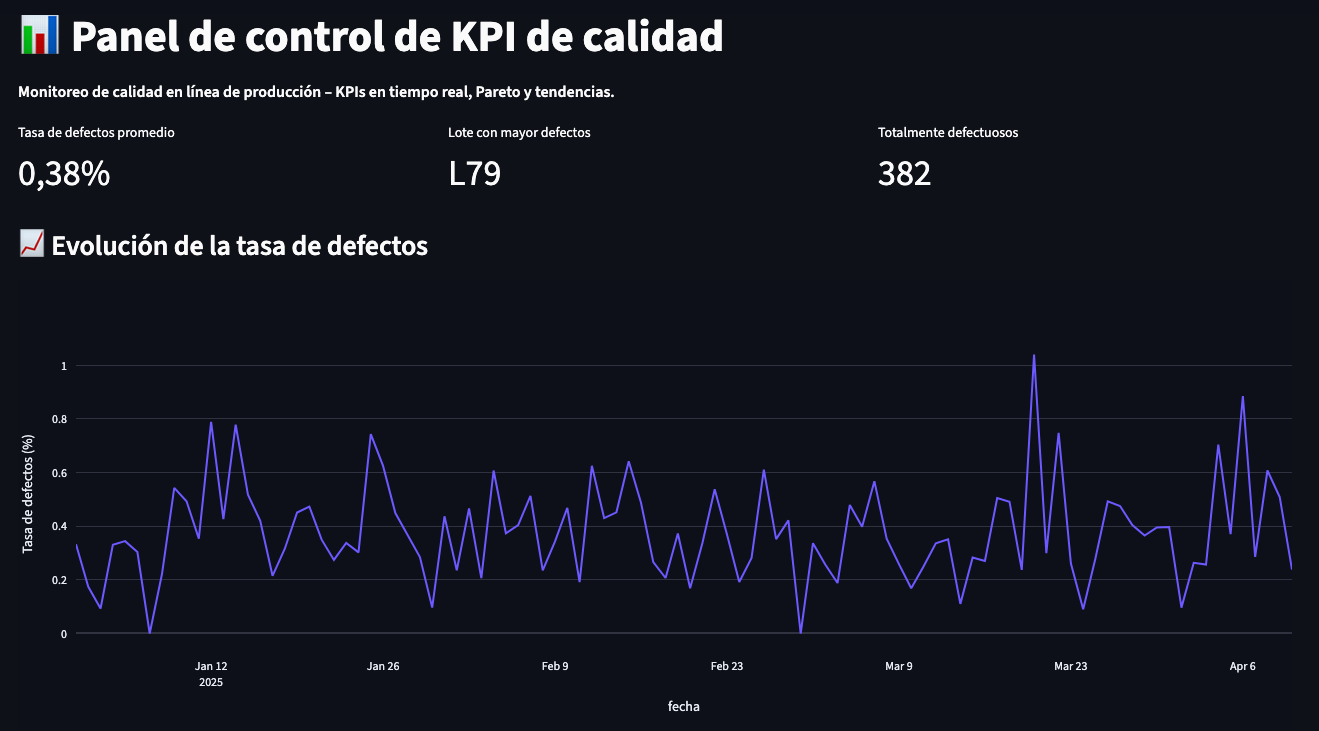
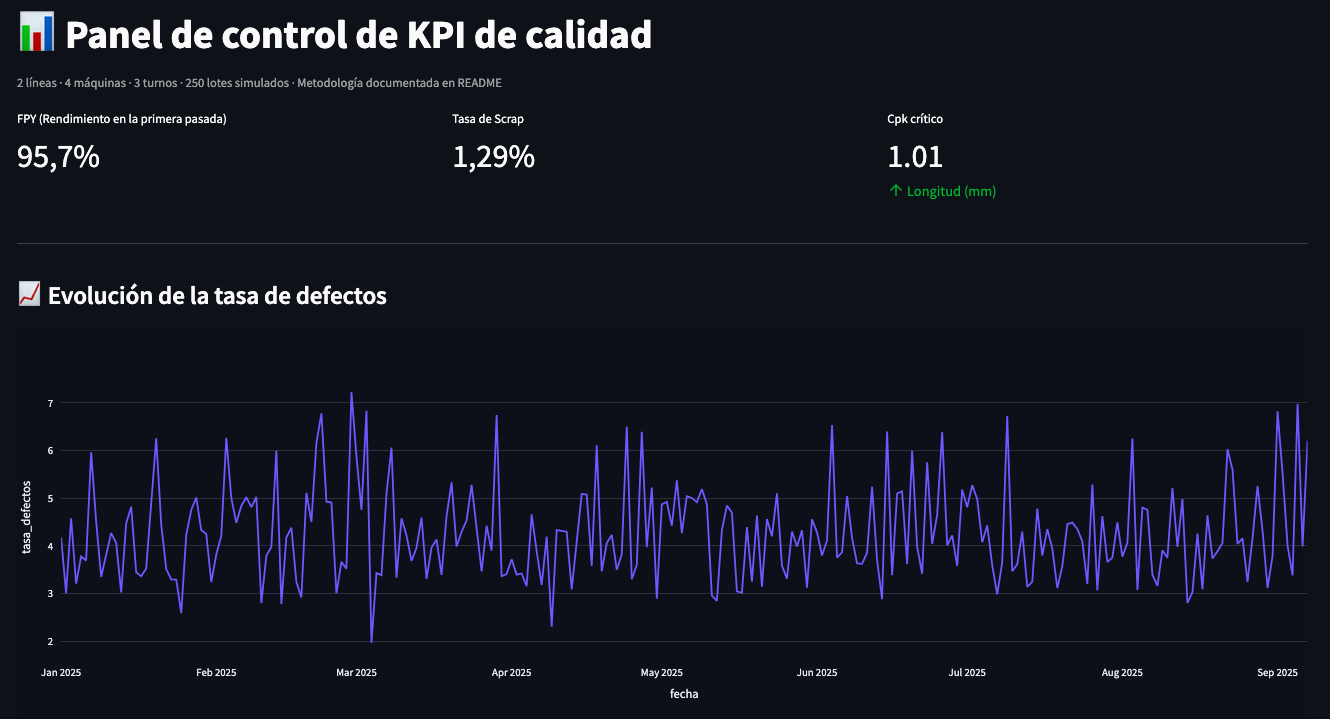
Agrega capturas reales del dashboard al README y documentacion del proyecto

diff --git a/docs/Manual_Ejecucion_y_Guia_Replicacion_Quality-KPI-Dashboard.md b/docs/Manual_Ejecucion_y_Guia_Replicacion_Quality-KPI-Dashboard.md
@@ -1,0 +1,210 @@
+# 🎓 Manual de Ejecución y Guía de Replicación
+## Quality KPI Dashboard — Panel de Control de Calidad Industrial
+
+**Para:** David Camilo González Santibáñez — Ingeniero Civil Químico, aprendiendo Python aplicado a Data Analytics
+**Repositorio:** `github.com/icqdgonzalezs/quality-kpi-dashboard`
+**Nivel de este manual:** explicado para quien programa pero aún está construyendo bases sólidas — cada comando y cada concepto se explica antes de usarlo, no se asume que ya lo sabes.
+
+---
+
+# PARTE A — Manual de ejecución
+
+## A.1 Por qué este proyecto necesita Python 3.11 (no el más nuevo)
+
+Antes de tocar un comando, entiende el "por qué", porque es una lección que se repite en cualquier proyecto de Python: **no siempre la versión más nueva es la correcta — la correcta es la compatible con tu entorno.**
+
+Este dashboard usa Streamlit, que internamente depende de una librería llamada `pyarrow` (sirve para manejar tablas de datos de forma eficiente). `pyarrow` se distribuye como **binario precompilado (wheel)** — un archivo ya "cocinado" para una combinación específica de sistema operativo y versión de Python. Si `pip` no encuentra un wheel listo, intenta **compilar desde el código fuente**, y esa compilación puede fallar si tu Mac es antiguo (como macOS Mojave) y no soporta las instrucciones de procesador modernas que el código necesita.
+
+**Conclusión práctica:** en este proyecto, Python 3.11 es obligatorio, no opcional. Python 3.13 (el más reciente) no tiene ningún wheel de `pyarrow` compatible con macOS Mojave — lo verificamos empíricamente, no lo asumimos.
+
+## A.2 Preparar el entorno (cada vez que abres Terminal)
+
+```bash
+cd ~/Documents/Industrial-Analytics-Portafolio/01-Quality-KPI-Dashboard
+source venv/bin/activate
+python3 --version
+```
+
+Debe mostrar `Python 3.11.9`. Si por algún motivo muestra 3.13, algo salió mal en la creación del entorno — repara con:
+
+```bash
+deactivate
+rm -rf venv
+/Library/Frameworks/Python.framework/Versions/3.11/bin/python3.11 -m venv venv
+source venv/bin/activate
+```
+
+**Concepto clave — entorno virtual (`venv`):** es una "caja aislada" con su propia copia de Python y sus propias librerías, separada del resto de tu sistema. Sin esto, instalar una librería para un proyecto podría romper otro proyecto que necesita una versión distinta de la misma librería. Es una de las prácticas más importantes que debes internalizar como programador.
+
+Si es la **primera vez** en un computador nuevo:
+```bash
+/Library/Frameworks/Python.framework/Versions/3.11/bin/python3.11 -m venv venv
+source venv/bin/activate
+pip install -r requirements.txt
+```
+
+## A.3 Comandos principales, explicados uno por uno
+
+### Generar (o regenerar) el dataset simulado
+```bash
+python3 src/data_generator.py
+```
+Esto ejecuta el archivo como **script** (nota el `if __name__ == "__main__":` al final del archivo — es la forma estándar en Python de decir "este código solo corre si ejecuto este archivo directamente, no si lo importo desde otro lado"). Sobrescribe `data/calidad_muestra.csv` con 250 lotes nuevos, usando la misma semilla aleatoria (`seed=42`) — por eso el resultado es **siempre idéntico**, aunque lo corras 100 veces. Esto se llama **reproducibilidad determinística**.
+
+### Correr el dashboard
+```bash
+streamlit run dashboard/app.py
+```
+Levanta un servidor web local (por eso ves `Local URL: http://localhost:8501`) y abre tu navegador automáticamente. Streamlit vuelve a ejecutar todo el script `app.py` de arriba a abajo cada vez que interactúas con un filtro — por eso usamos `@st.cache_data` sobre `cargar_datos()`, para no releer el CSV cada vez que mueves el `selectbox`.
+
+Para detenerlo: `Ctrl + C` en la Terminal donde corre.
+
+### Correr los tests
+```bash
+pytest tests/ -v
+```
+- `pytest` busca automáticamente archivos que empiecen con `test_` dentro de la carpeta indicada.
+- `-v` (verbose) muestra el nombre de cada test individual, no solo un resumen.
+
+Variantes útiles:
+```bash
+pytest tests/ -v -k "cpk"        # solo tests con "cpk" en el nombre
+pytest tests/test_kpis.py -v     # solo un archivo específico
+```
+
+### Usar los módulos desde Python directamente (sin Streamlit)
+Esto es útil para explorar o depurar sin levantar el dashboard completo:
+```bash
+python3 -c "
+import pandas as pd
+from src.kpis import calcular_kpis_globales
+
+df = pd.read_csv('data/calidad_muestra.csv')
+print(calcular_kpis_globales(df))
+"
+```
+
+---
+
+# PARTE B — Arquitectura del proyecto, explicada como clase de programación
+
+Esta sección es la más importante para tu aprendizaje: no solo qué hace cada archivo, sino **por qué está organizado así**, y qué principio de programación aplica.
+
+## B.1 El problema que resuelve la separación en módulos
+
+Antes de la intervención, todo el proyecto era **un solo archivo** (`app.py`) que generaba datos, calculaba KPIs, y dibujaba gráficos, todo mezclado. Esto viola el **Principio de Responsabilidad Única (SRP)**: si mañana quieres cambiar cómo se calcula el Cpk, tendrías que tocar el mismo archivo que dibuja los gráficos — alto riesgo de romper algo que no querías tocar.
+
+La solución fue dividir en capas, cada una con un trabajo específico:
+
+```
+src/data_generator.py   -> genera datos (no calcula KPIs, no dibuja nada)
+src/kpis.py              -> calcula KPIs descriptivos (no sabe que existe Streamlit)
+src/capability.py        -> calcula Cp/Cpk (no sabe que existe Streamlit)
+dashboard/app.py         -> orquesta: llama a los modulos de arriba y dibuja
+```
+
+**Por qué esto es mejor (y por qué te conviene aprenderlo ahora, temprano):**
+1. **Testeable en aislamiento** — puedes probar `calcular_cp_cpk()` con `pytest` sin necesitar abrir un navegador ni levantar Streamlit.
+2. **Reutilizable** — si mañana quieres un reporte en Excel en vez de Streamlit, usas los mismos `src/kpis.py` y `src/capability.py` sin tocarlos.
+3. **Más fácil de razonar** — cuando lees `capability.py`, sabes que ahí SOLO hay matemática de Cp/Cpk, nada de HTML ni de gráficos.
+
+## B.2 Anatomía de `src/kpis.py` — patrones de Python que debes dominar
+
+```python
+def calcular_kpis_globales(df: pd.DataFrame) -> dict:
+```
+
+Fíjate en la firma de la función: `df: pd.DataFrame` y `-> dict` son **anotaciones de tipo (type hints)**. No cambian cómo corre el código (Python sigue siendo dinámico), pero le dicen a cualquier persona que lea la función (incluido tú mismo en 3 meses) qué tipo de dato entra y qué tipo sale — y herramientas como tu editor de código las usan para autocompletar y detectar errores antes de ejecutar nada.
+
+```python
+def calcular_kpis_por_dimension(df: pd.DataFrame, dimension: str) -> pd.DataFrame:
+    if dimension not in df.columns:
+        raise ValueError(f"Dimension '{dimension}' no existe en el dataset.")
+```
+
+Este patrón se llama **validación defensiva (guard clause)**: en vez de dejar que el código falle más adelante con un error críptico de pandas, validamos al entrar a la función y lanzamos un error **claro y específico** con `raise ValueError(...)`. Esto es una práctica profesional — un error que dice "Dimensión 'xyz' no existe" es mucho más útil para depurar que un `KeyError` genérico de pandas 10 líneas después.
+
+```python
+agrupado = df.groupby(dimension).agg(
+    unidades_producidas=("unidades_producidas", "sum"),
+    ...
+).reset_index()
+```
+
+`groupby().agg()` es el patrón central de pandas para responder preguntas tipo "¿cuál es el total de X, agrupado por Y?" — aquí: "¿cuántas unidades se produjeron, agrupadas por máquina?". El `.reset_index()` al final convierte el resultado agrupado de vuelta en una tabla plana normal (sin él, `dimension` quedaría como índice en vez de columna).
+
+## B.3 Anatomía de `src/capability.py` — manejo de casos límite
+
+```python
+def calcular_cp_cpk(valores: pd.Series, lsl: float, usl: float) -> dict:
+    valores = valores.dropna()
+    n = len(valores)
+
+    if n < 2 or usl <= lsl:
+        return {"cp": None, "cpk": None, "clasificacion": "Datos insuficientes"}
+
+    if sigma == 0:
+        return {"cp": float("inf"), "cpk": float("inf")}
+```
+
+Esto es **programación defensiva ante casos límite (edge cases)**. Antes de hacer el cálculo "feliz" (el caso normal), la función se pregunta: ¿qué pasa si me pasan menos de 2 datos? ¿Qué pasa si LSL es mayor que USL (un error de configuración)? ¿Qué pasa si no hay ninguna variabilidad (sigma=0), lo que causaría una división por cero?
+
+**Esta es exactamente la misma disciplina que evitó el bug del proyecto 1** (el motor de simulación bloqueado): pensar en los casos donde el "camino feliz" no aplica, ANTES de que ese caso aparezca en producción y rompa algo silenciosamente.
+
+## B.4 El patrón de configuración externa (`config/quality_config.yaml`)
+
+```python
+with open("config/quality_config.yaml") as f:
+    config = yaml.safe_load(f)
+```
+
+**Por qué no escribimos los límites LSL/USL directamente en el código Python:** si mañana la especificación del producto cambia (por ejemplo, el peso nominal pasa de 500g a 520g), alguien sin conocimientos de programación podría editar el archivo YAML sin tocar ni entender el código Python. Esto se llama **separación entre configuración y lógica** — un principio que verás repetido en casi cualquier sistema profesional (bases de datos, APIs, aplicaciones web).
+
+---
+
+# PARTE C — Metodología de diagnóstico y remediación aplicada (replicable)
+
+Esto resume, en orden, la disciplina completa que aplicamos — la misma que puedes usar en cualquier proyecto tuyo futuro, propio o heredado de otra persona.
+
+## C.1 Nunca confiar, siempre verificar
+
+No asumimos que `requirements.txt` estaba bien — lo leímos con `cat` y encontramos que tenía instrucciones de `nano` pegadas por error dentro de un comentario, ocultando `streamlit==1.26.0`. No asumimos que Python 3.13 funcionaría — lo probamos empíricamente con `pip install ... --only-binary=:all:` antes de instalar Python 3.11.
+
+## C.2 Diagnóstico de causa raíz, no de síntoma
+
+El error de instalación de `pyarrow` no se resolvió "probando versiones al azar" — se leyó el mensaje de error completo (`SSE4.2 required but compiler doesn't support it`), se entendió que la causa era la combinación Python 3.13 + macOS antiguo, y se atacó esa causa (instalar Python 3.11), no el síntoma superficial (la versión de pyarrow).
+
+## C.3 Detectar afirmaciones no verificadas en la documentación
+
+El README afirmaba `Cpk = 0.85` sin que ese número existiera en ningún cálculo del código. Este tipo de hallazgo — una afirmación falsa y verificable en la documentación — es más grave que un bug técnico, porque afecta la credibilidad de todo el proyecto ante quien lo revise. Se corrigió implementando el cálculo real, no solo borrando la afirmación.
+
+## C.4 Ampliar datos con supuestos documentados, no arbitrarios
+
+Al pasar de 10 a 250 lotes, cada supuesto nuevo (máquina M04 con +1.5 p.p. de defectos, turno Noche con +0.8 p.p.) quedó **documentado en el docstring del generador**, con su justificación (desgaste mecánico, fatiga/supervisión). Un dataset simulado sin supuestos documentados es solo ruido — con ellos, es una narrativa de negocio defendible en una entrevista.
+
+## C.5 Validar resultados contra la lógica de negocio (sanity check)
+
+Después de generar los datos, se verificó explícitamente que el FPY estuviera en un rango realista (94-96%), que M04 apareciera con la peor tasa de defectos, y que el turno Noche apareciera peor que Mañana — confirmando que los patrones diseñados intencionalmente se reflejaban correctamente en los cálculos, antes de construir nada más encima.
+
+## C.6 Prueba de "clona y corre" como criterio de aceptación final
+
+Ningún hallazgo se dio por cerrado hasta clonar el repositorio en una carpeta 100% nueva y correr el flujo completo (`pip install`, `pytest`, `streamlit run`) como lo haría un desconocido — el mismo protocolo aplicado en el proyecto 1.
+
+---
+
+# Glosario rápido para seguir aprendiendo Python
+
+| Término | Qué significa | Dónde lo viste hoy |
+|---|---|---|
+| **Type hints** | Anotaciones opcionales de tipo de dato (`df: pd.DataFrame`) | Firmas de funciones en `kpis.py` |
+| **Guard clause** | Validar condiciones al inicio de una función y salir temprano si algo está mal | `if dimension not in df.columns: raise ValueError(...)` |
+| **Edge case** | Caso límite o poco común que puede romper el "camino feliz" del código | `sigma == 0`, `n < 2` en `capability.py` |
+| **`groupby().agg()`** | Patrón de pandas para agregar datos por categoría | `calcular_kpis_por_dimension()` |
+| **`@st.cache_data`** | Decorador de Streamlit que evita recalcular algo costoso en cada interacción | `cargar_datos()` en `app.py` |
+| **Reproducibilidad determinística** | Mismo código + misma semilla = mismo resultado, siempre | `np.random.default_rng(seed=42)` |
+| **Configuración externa** | Separar parámetros ajustables del código fuente | `config/quality_config.yaml` |
+| **SRP (Single Responsibility Principle)** | Cada módulo/función debe tener una sola razón para cambiar | División en `data_generator.py` / `kpis.py` / `capability.py` |
+
+---
+
+**Manual preparado como guía de referencia permanente para el portafolio de Data Analytics Industrial de David Camilo González Santibáñez.**

diff --git a/README.md b/README.md
@@ -49,6 +49,16 @@ Cpk = min[(USL - media)/(3sigma), (media - LSL)/(3sigma)]
 
 ---
 
+## 📸 Capturas del panel
+
+**Panel principal — KPIs críticos y evolución de la tasa de defectos**
+![Panel principal](imagenes/panel_vista_previa1.png)
+
+**Análisis de causa raíz, comparación operacional y capacidad de proceso (Cp/Cpk)**
+![Analisis y capacidad](imagenes/panel_vista_previa2.png)
+
+---
+
 ## 🛠 Stack tecnológico
 
 | Herramienta | Uso |
